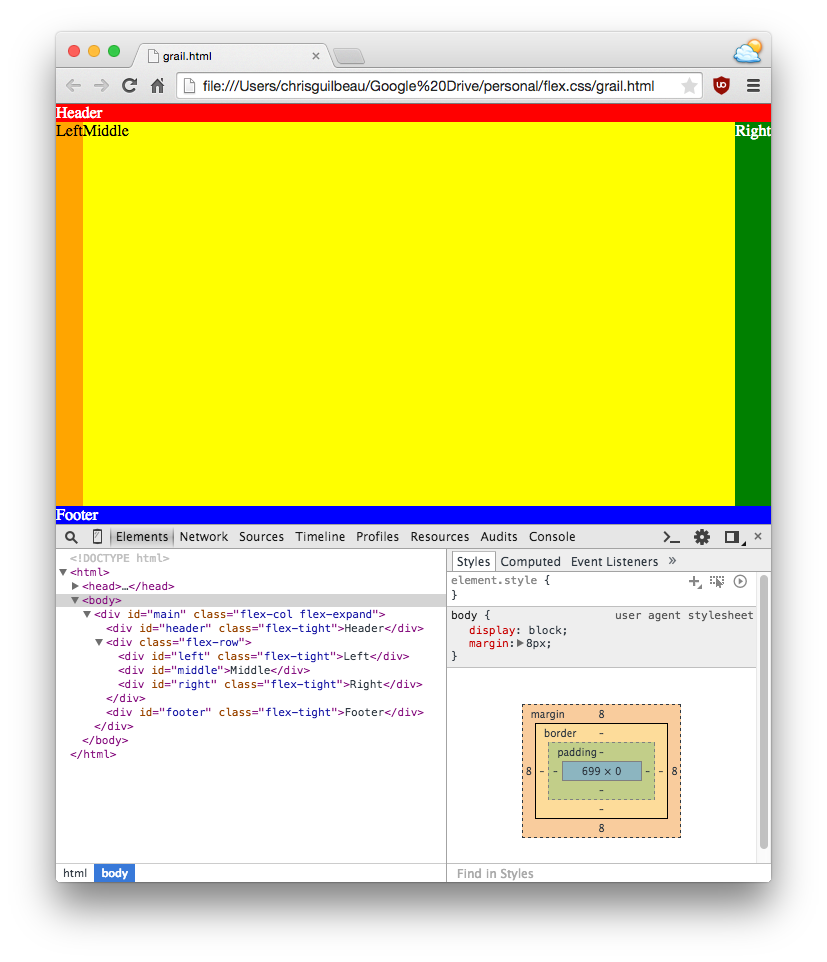
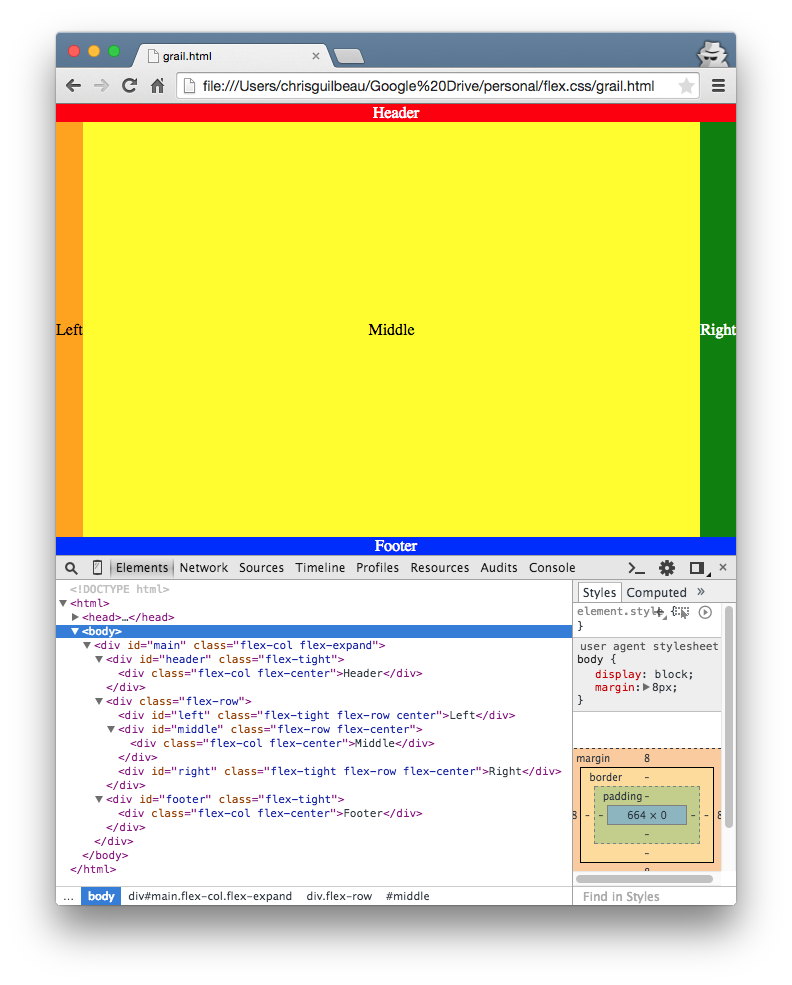
updated to use more examples

diff --git a/grail.html b/grail.html
@@ -25,13 +25,13 @@
     </head>
     <body>
         <div id='main' class='flex-col flex-expand'>
-            <div id='header' class='flex-tight'>Header</div>
+            <div id='header' class='flex-tight'><div class='flex-col flex-center'>Header</div></div>
             <div class='flex-row'>
-                <div id='left' class='flex-tight'>Left</div>
-                <div id='middle'>Middle</div>
-                <div id='right' class='flex-tight'>Right</div>
+                <div id='left' class='flex-tight flex-row center'>Left</div>
+                <div id='middle' class='flex-row flex-center'><div class='flex-col flex-center'>Middle</div></div>
+                <div id='right' class='flex-tight flex-row flex-center'>Right</div>
             </div>
-            <div id='footer' class='flex-tight'>Footer</div>
+            <div id='footer' class='flex-tight'><div class='flex-col flex-center'>Footer</div>
         </div>
     </body>
 </html>
